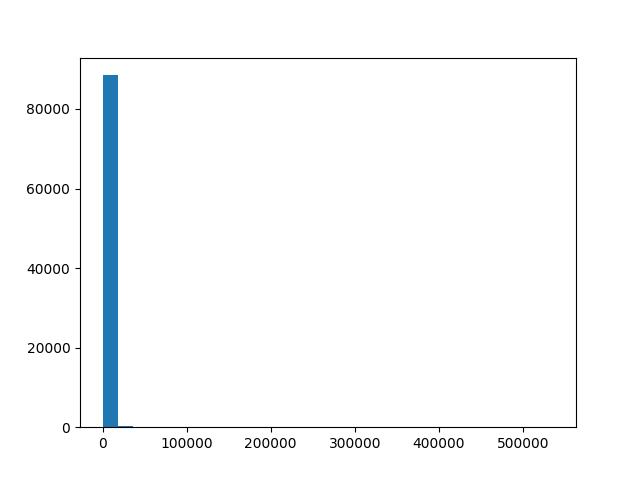
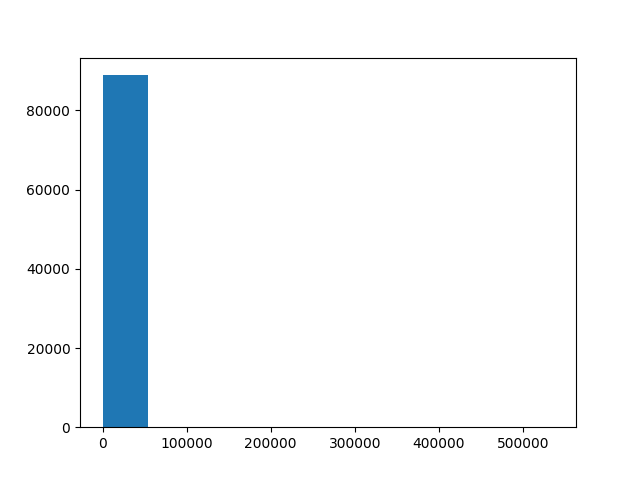
Update

diff --git a/random_indexing_andrea.py b/random_indexing_andrea.py
@@ -79,6 +79,19 @@ redux = prova_corpus.reduced_vocabulary
 w2i = {v : k for k, v in redux.items()}
 vocab_with_counters = prova_corpus.counters_with_index
 total_count = prova_corpus.total_count_words
+
+print('Now plotting the frequency clusters for visualization...')
+counters = [n for k, n in vocab_with_counters.items()]           
+#values = defaultdict(int)
+
+#for k, v in vocab_with_counters.items():
+    #values[int(round(v))] += 1
+
+fig, ax = plt.subplots()
+ax.hist(counters)
+#ax.scatter([1,2],[1,2])
+fig.savefig('RI_plots/frequencies_{}.png'.format(current_parameters))
+import pdb; pdb.set_trace()
 #index2word = {v : k for k,v in redux.items() if v != 0}
 #print('Now dumping the dictionary...')
 #with open('FIXED_dumped_bnc_NO_LEMMA_TEST_WORDS_redux_100_min_stopwords_removed.pickle', 'wb') as r:
@@ -171,17 +184,6 @@ if args.ppmi == True:
     #ax.scatter([1,2],[1,2])
     fig.savefig('RI_plots/{}.png'.format(current_parameters))
 
-    print('Now plotting the frequency clusters for visualization...')
-    counters = [n for k, n in vocab_with_counters.items()]           
-    #values = defaultdict(int)
-
-    #for k, v in vocab_with_counters.items():
-        #values[int(round(v))] += 1
-
-    fig, ax = plt.subplots()
-    ax.hist(counters, bins = 30)
-    #ax.scatter([1,2],[1,2])
-    fig.savefig('RI_plots/frequencies_{}.png'.format(current_parameters))
 
 #print('Now dumping the co-oc PMIed dictionary...')
 #with open('dumped_bnc_cooc_10_min_window_10_stopwords_removed_PPMIed.pickle', 'wb') as d:
